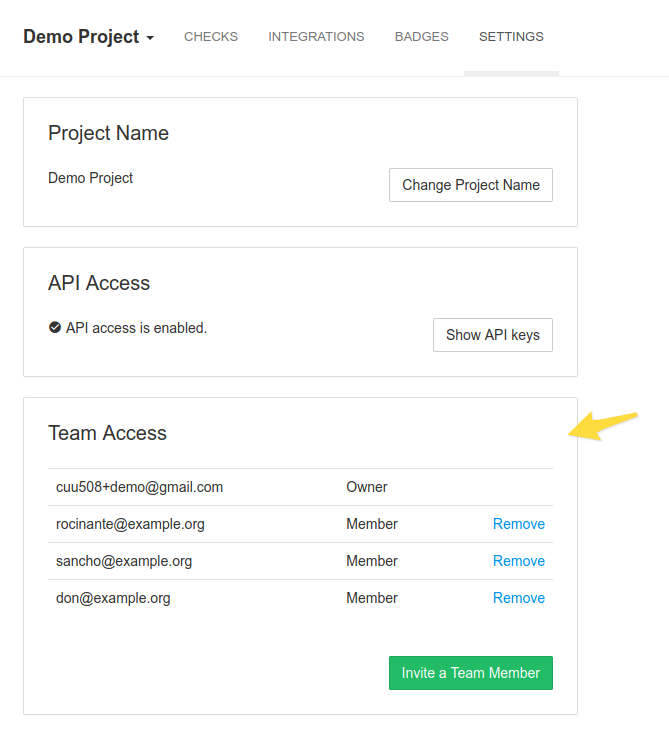
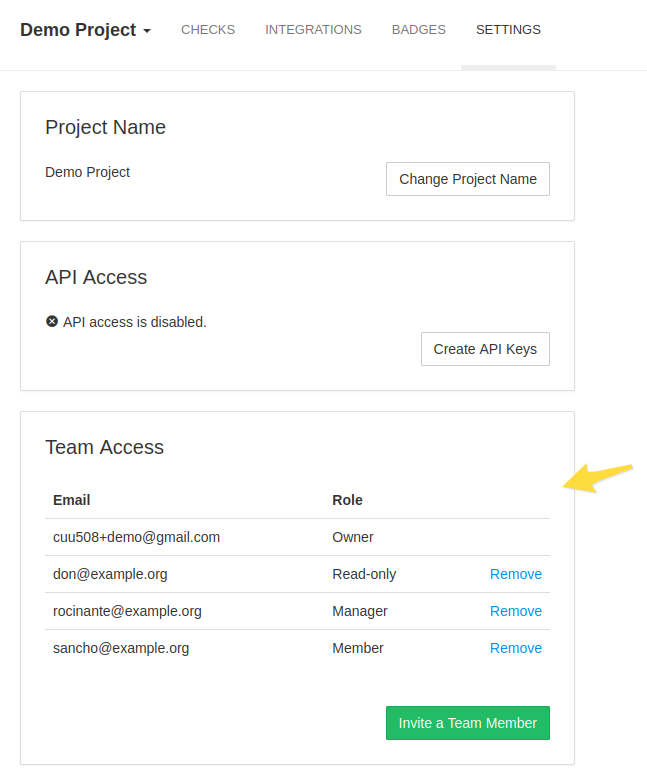
Update docs with the Manager role

diff --git a/templates/docs/projects_teams.html b/templates/docs/projects_teams.html
@@ -13,8 +13,10 @@ the project's team. Each project has its separate team so you can grant access
 selectively. Inviting team members is <strong>more convenient and more
 secure</strong> than sharing a password to a single account.</p>
 <p><img alt="Team access section" src="IMG_URL/team_access.png" /></p>
-<p>The user who created the project is the <strong>owner</strong>. Any invited users
-are <strong>members</strong>. The members can:</p>
+<p>The user who created the project is listed as <strong>Owner</strong>. When you invite an user
+to the project, you can select one of the three roles for their membership:
+<strong>Team Member</strong> (what you usually want), <strong>Manager</strong> or <strong>Read-only</strong>.</p>
+<p>Team Members can:</p>
 <ul>
 <li>create, edit and remove checks</li>
 <li>create and remove integrations</li>
@@ -23,16 +25,17 @@ are <strong>members</strong>. The members can:</p>
 <li>give up their membership
 (from their <a href="../../accounts/profile/">Account Settings</a> page)</li>
 </ul>
-<p>The members <strong>can not</strong>:</p>
+<p>Team Members can not:</p>
 <ul>
 <li>invite new members into the project</li>
-<li>manage project's billing</li>
+<li>change project's owner</li>
+<li>manage project owner's billing settings</li>
 <li>remove the project</li>
 </ul>
-<h2>Read-only Access</h2>
-<p>When inviting a team member, you can mark their membership as read-only:</p>
-<p><img alt="The Access Level parameter in the Invite form" src="IMG_URL/invite_member.png" /></p>
-<p>Read-only members can:</p>
+<p><strong>Managers</strong> have the same permissions as Team Members, with one exception:
+Managers can invite new members and remove existing members from the project's team.
+Managers still can not change or remove project's owner, or manage billing.</p>
+<p><strong>Read-only</strong> members can:</p>
 <ul>
 <li>view checks, including check details and ping logs</li>
 <li>view integrations</li>
@@ -58,6 +61,9 @@ Same as with Check Limit, all projects share your account's Team Size limit.
 However, if you invite the same user (using the same email address) into multiple
 projects, it only takes up a single seat.</p>
 <h2>Projects and Monthly Reports</h2>
-<p>SITE_NAME sends monthly email reports at the start of each month. The monthly reports
-list a summary of checks from <strong>all your projects</strong>. It contains status summaries for
+<p>SITE_NAME sends periodic email reports with a summary of checks
+from <strong>all your projects</strong>. The reports contain status summaries for
 both the projects you own and the projects you are a member of.</p>
+<p>You can configure the frequency of the reports (monthly, on the 1st of every month,
+or weekly, on Mondays) or turn them off altogether in
+<a href="../../accounts/profile/notifications/">Account Settings › Email Reports</a>.</p>

diff --git a/templates/docs/projects_teams.md b/templates/docs/projects_teams.md
@@ -21,8 +21,11 @@ secure** than sharing a password to a single account.
 
 ![Team access section](IMG_URL/team_access.png)
 
-The user who created the project is the **owner**. Any invited users
-are **members**. The members can:
+The user who created the project is listed as **Owner**. When you invite an user
+to the project, you can select one of the three roles for their membership:
+**Team Member** (what you usually want), **Manager** or **Read-only**.
+
+Team Members can:
 
 * create, edit and remove checks
 * create and remove integrations
@@ -31,19 +34,18 @@ are **members**. The members can:
 * give up their membership
 (from their [Account Settings](../../accounts/profile/) page)
 
-The members **can not**:
+Team Members can not:
 
 * invite new members into the project
-* manage project's billing
+* change project's owner
+* manage project owner's billing settings
 * remove the project
 
-## Read-only Access
+**Managers** have the same permissions as Team Members, with one exception:
+Managers can invite new members and remove existing members from the project's team.
+Managers still can not change or remove project's owner, or manage billing.
 
-When inviting a team member, you can mark their membership as read-only:
-
-![The Access Level parameter in the Invite form](IMG_URL/invite_member.png)
-
-Read-only members can:
+**Read-only** members can:
 
 * view checks, including check details and ping logs
 * view integrations
@@ -77,6 +79,10 @@ projects, it only takes up a single seat.
 
 ## Projects and Monthly Reports
 
-SITE_NAME sends monthly email reports at the start of each month. The monthly reports
-list a summary of checks from **all your projects**. It contains status summaries for
+SITE_NAME sends periodic email reports with a summary of checks
+from **all your projects**. The reports contain status summaries for
 both the projects you own and the projects you are a member of.
+
+You can configure the frequency of the reports (monthly, on the 1st of every month,
+or weekly, on Mondays) or turn them off altogether in
+[Account Settings › Email Reports](../../accounts/profile/notifications/).
